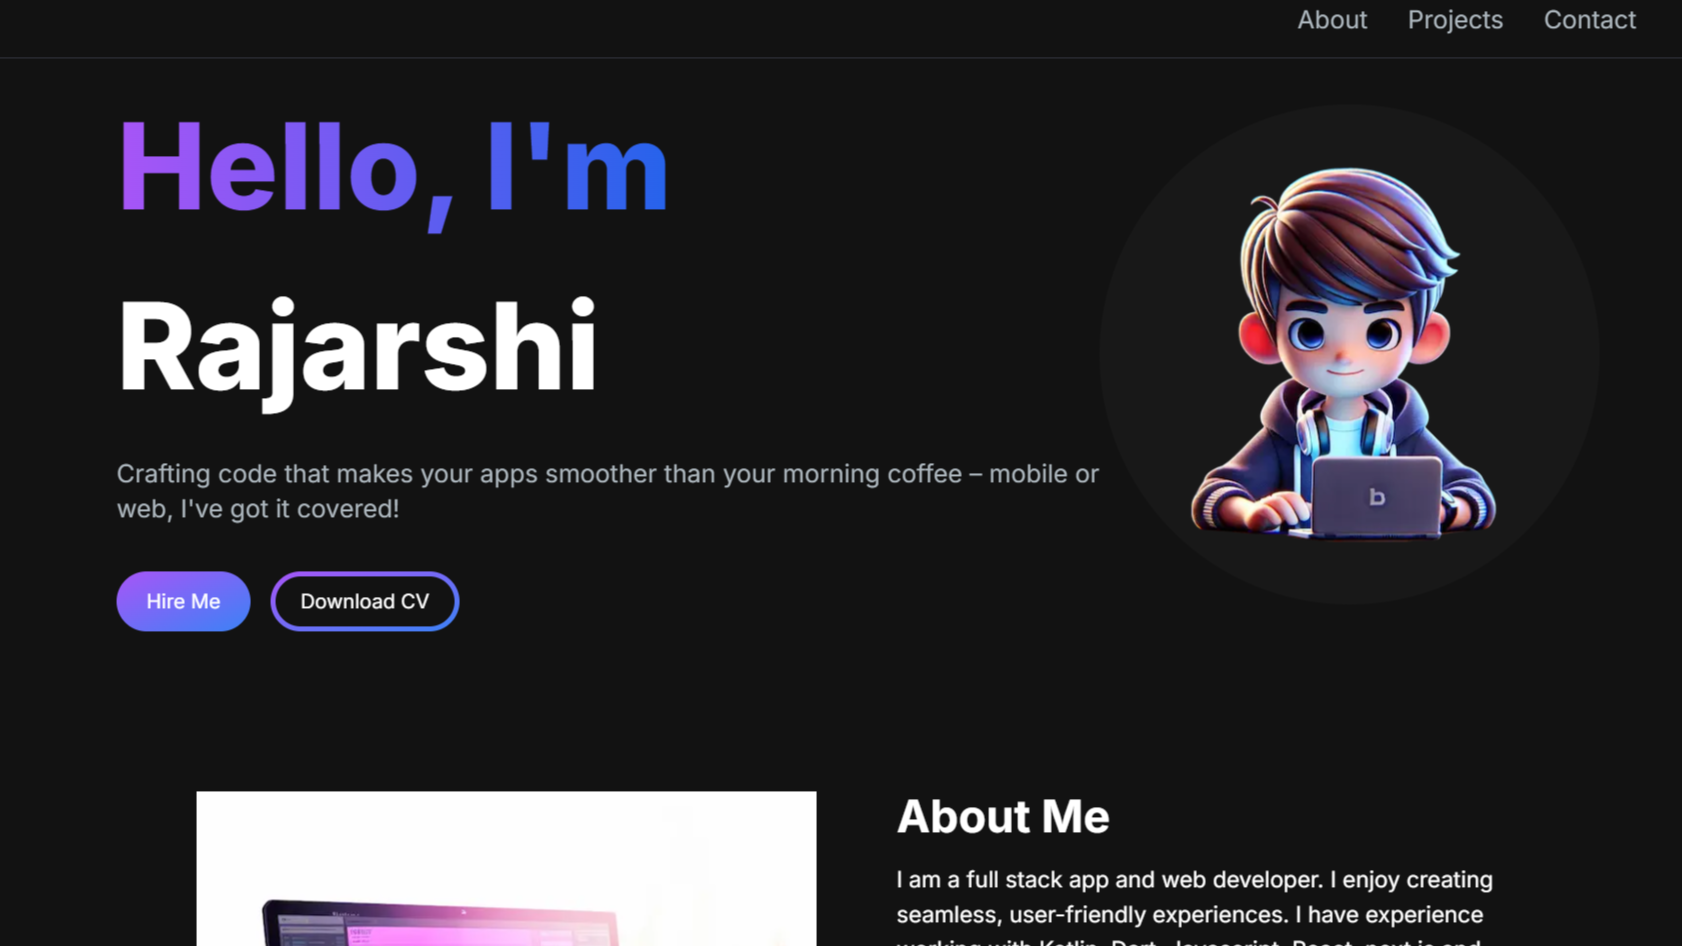
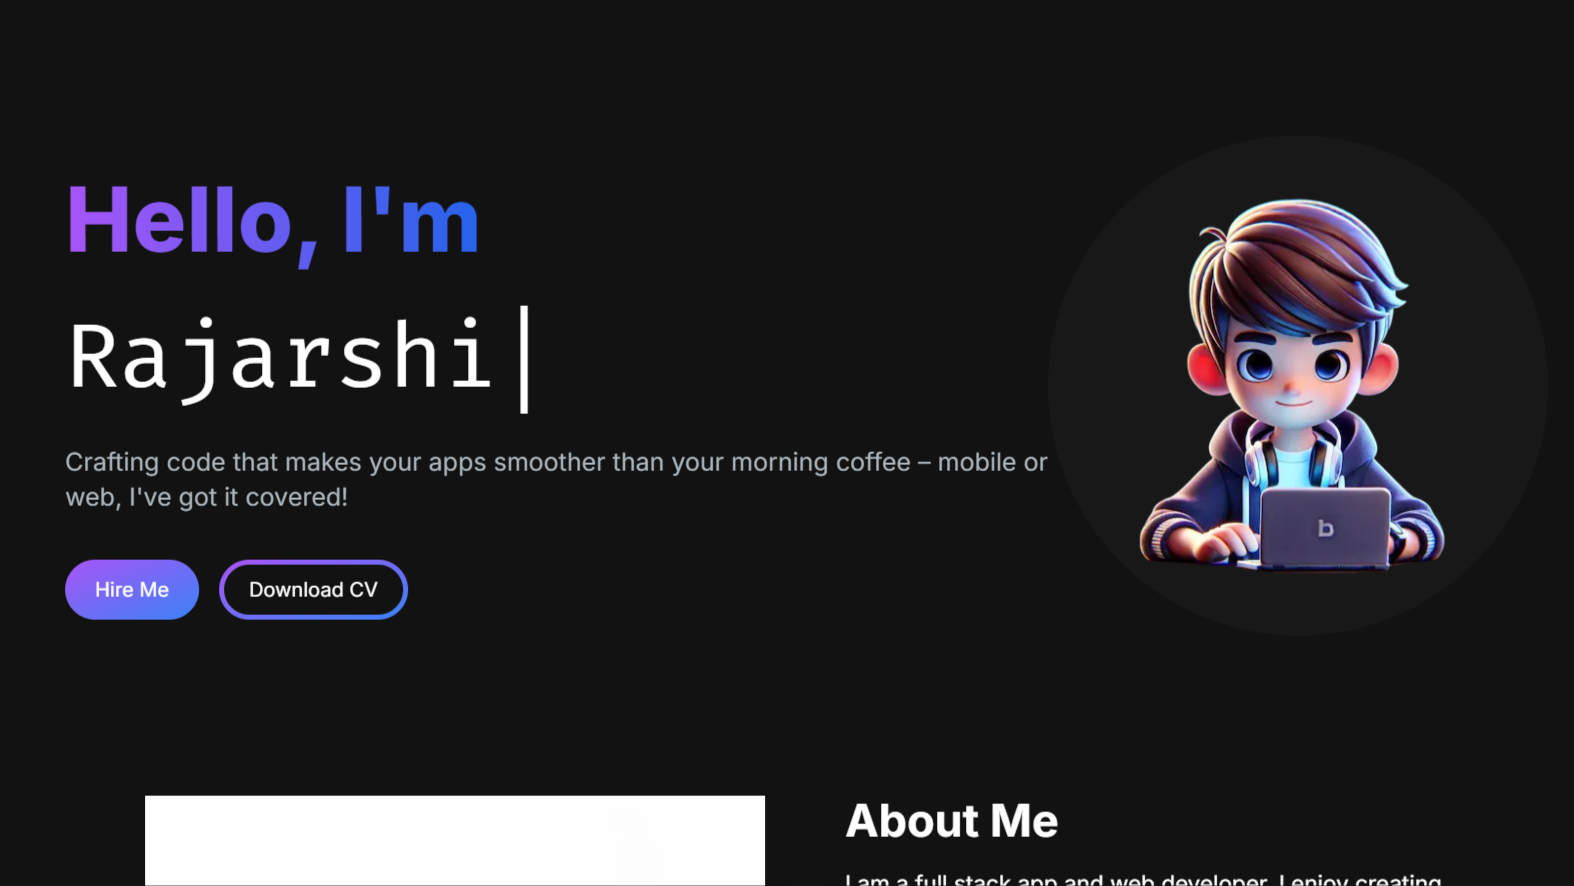
commit

diff --git a/src/app/components/HeroSection.jsx b/src/app/components/HeroSection.jsx
@@ -4,6 +4,9 @@ import Image from "next/image";
 import { TypeAnimation } from "react-type-animation";
 import { motion } from "framer-motion";
 import Link from "next/link";
+import { Fira_Code } from 'next/font/google';
+
+const jetBrains = Fira_Code({ subsets: ['latin'] });
 
 const HeroSection = () => {
   return (
@@ -15,26 +18,28 @@ const HeroSection = () => {
           transition={{ duration: 0.5 }}
           className="col-span-8 place-self-center text-center sm:text-left justify-self-start"
         >
-          <h1 className="text-white mb-4 text-4xl sm:text-5xl lg:text-8xl lg:leading-normal font-extrabold">
-            <span className="text-transparent bg-clip-text bg-gradient-to-r from-primary-500 to-secondary-600">
+          <h1 className="text-white mb-4 text-4xl sm:text-5xl lg:text-7xl lg:leading-normal ">
+            <span className="text-transparent bg-clip-text bg-gradient-to-r from-primary-500 to-secondary-600 font-extrabold">
               Hello, I&apos;m{" "}
             </span>
             <br></br>
+            <span className={jetBrains.className}>
             <TypeAnimation
               sequence={[
                 "Rajarshi",
                 1000,
-                "Web Developer",
+                "a Web Developer",
                 1000,
-                "App Developer",
+                "an App Developer",
                 1000,
               ]}
               wrapper="span"
               speed={50}
               repeat={Infinity}
             />
+            </span>
           </h1>
-          <p className="text-[#ADB7BE] text-base sm:text-lg mb-6 lg:text-xl">
+          <p className="text-[#ADB7BE] text-base sm:text-lg mb-6 lg:text-xl mr-10">
           Crafting code that makes your apps smoother than your morning coffee – mobile or web, I&apos;ve got it covered!
           </p>
           <div>
@@ -46,7 +51,7 @@ const HeroSection = () => {
             </Link>
             <Link
               rel="noopener noreferrer" target="_blank"
-              href="https://drive.google.com/file/d/1QAhF2cM9qQmpdu--aJiUOzgsBKbwzmC1/view?usp=sharing"
+              href="https://drive.google.com/file/d/1c3r8LBd6KqI86eV1QMuHUtEo2Er4FURH/view?usp=sharing"
               className="px-1 inline-block py-1 w-full sm:w-fit rounded-full bg-gradient-to-br from-primary-500 to-secondary-500 hover:bg-slate-800 text-white mt-3"
             >
               <span className="block bg-[#121212] hover:bg-slate-800 rounded-full px-5 py-2">

diff --git a/src/app/components/AboutSection.jsx b/src/app/components/AboutSection.jsx
@@ -2,6 +2,7 @@
 import React, { useTransition, useState } from "react";
 import Image from "next/image";
 import TabButton from "./TabButton";
+import Link from "next/link";
 
 const TAB_DATA = [
   {
@@ -36,8 +37,22 @@ const TAB_DATA = [
     id: "certifications",
     content: (
       <ul className="list-disc pl-2">
-        <li>Prompt Engineering for ChatGPT</li>
-        <li>Data Analysis with Python</li>
+        <li><Link
+              rel="noopener noreferrer" target="_blank" 
+              href = "https://coursera.org/share/69153f2c3f211ed5a49d486827b98c10">
+              Prompt Engineering for ChatGPT 
+              </Link> </li>
+        <li><Link
+              rel="noopener noreferrer" target="_blank" 
+              href = "https://coursera.org/share/0d851da59ba5457edbf02a330c2617e4">
+              Data Analysis with Python
+              </Link> </li>
+        <li><Link
+              rel="noopener noreferrer" target="_blank" 
+              href = "https://coursera.org/share/259301ae129b845e0ea6abd88562019c">
+              Generative AI: Prompt Engineering Basics
+              </Link> </li>
+        
       </ul>
     ),
   },
@@ -60,7 +75,7 @@ const AboutSection = () => {
         <div className="mt-4 md:mt-0 text-left flex flex-col h-full">
           <h2 className="text-4xl font-bold text-white mb-4">About Me</h2>
           <p className="text-base lg:text-lg">
-           I am a full stack app and web developer. I enjoy creating seamless, user-friendly experiences. I have experience working with Kotlin, Dart, Javascript, React, next.js and python. I am a team player and I am excited to work with others to create amazing applications.
+           I am a full stack app and web developer. I enjoy creating seamless, user-friendly experiences. I have experience working with Flutter, Javascript, React, next.js and python among others. I am generally excited to work with others to create well rounded applications.
           </p>
           <div className="flex flex-row justify-start mt-8">
             <TabButton

diff --git a/src/app/components/EmailSection.jsx b/src/app/components/EmailSection.jsx
@@ -85,7 +85,7 @@ const EmailSection = () => {
                 id="email"
                 required
                 className="bg-[#18191E] border border-[#33353F] placeholder-[#9CA2A9] text-gray-100 text-sm rounded-lg block w-full p-2.5"
-                placeholder="jacob@google.com"
+                placeholder="john@gmail.com"
               />
             </div>
             <div className="mb-6">
